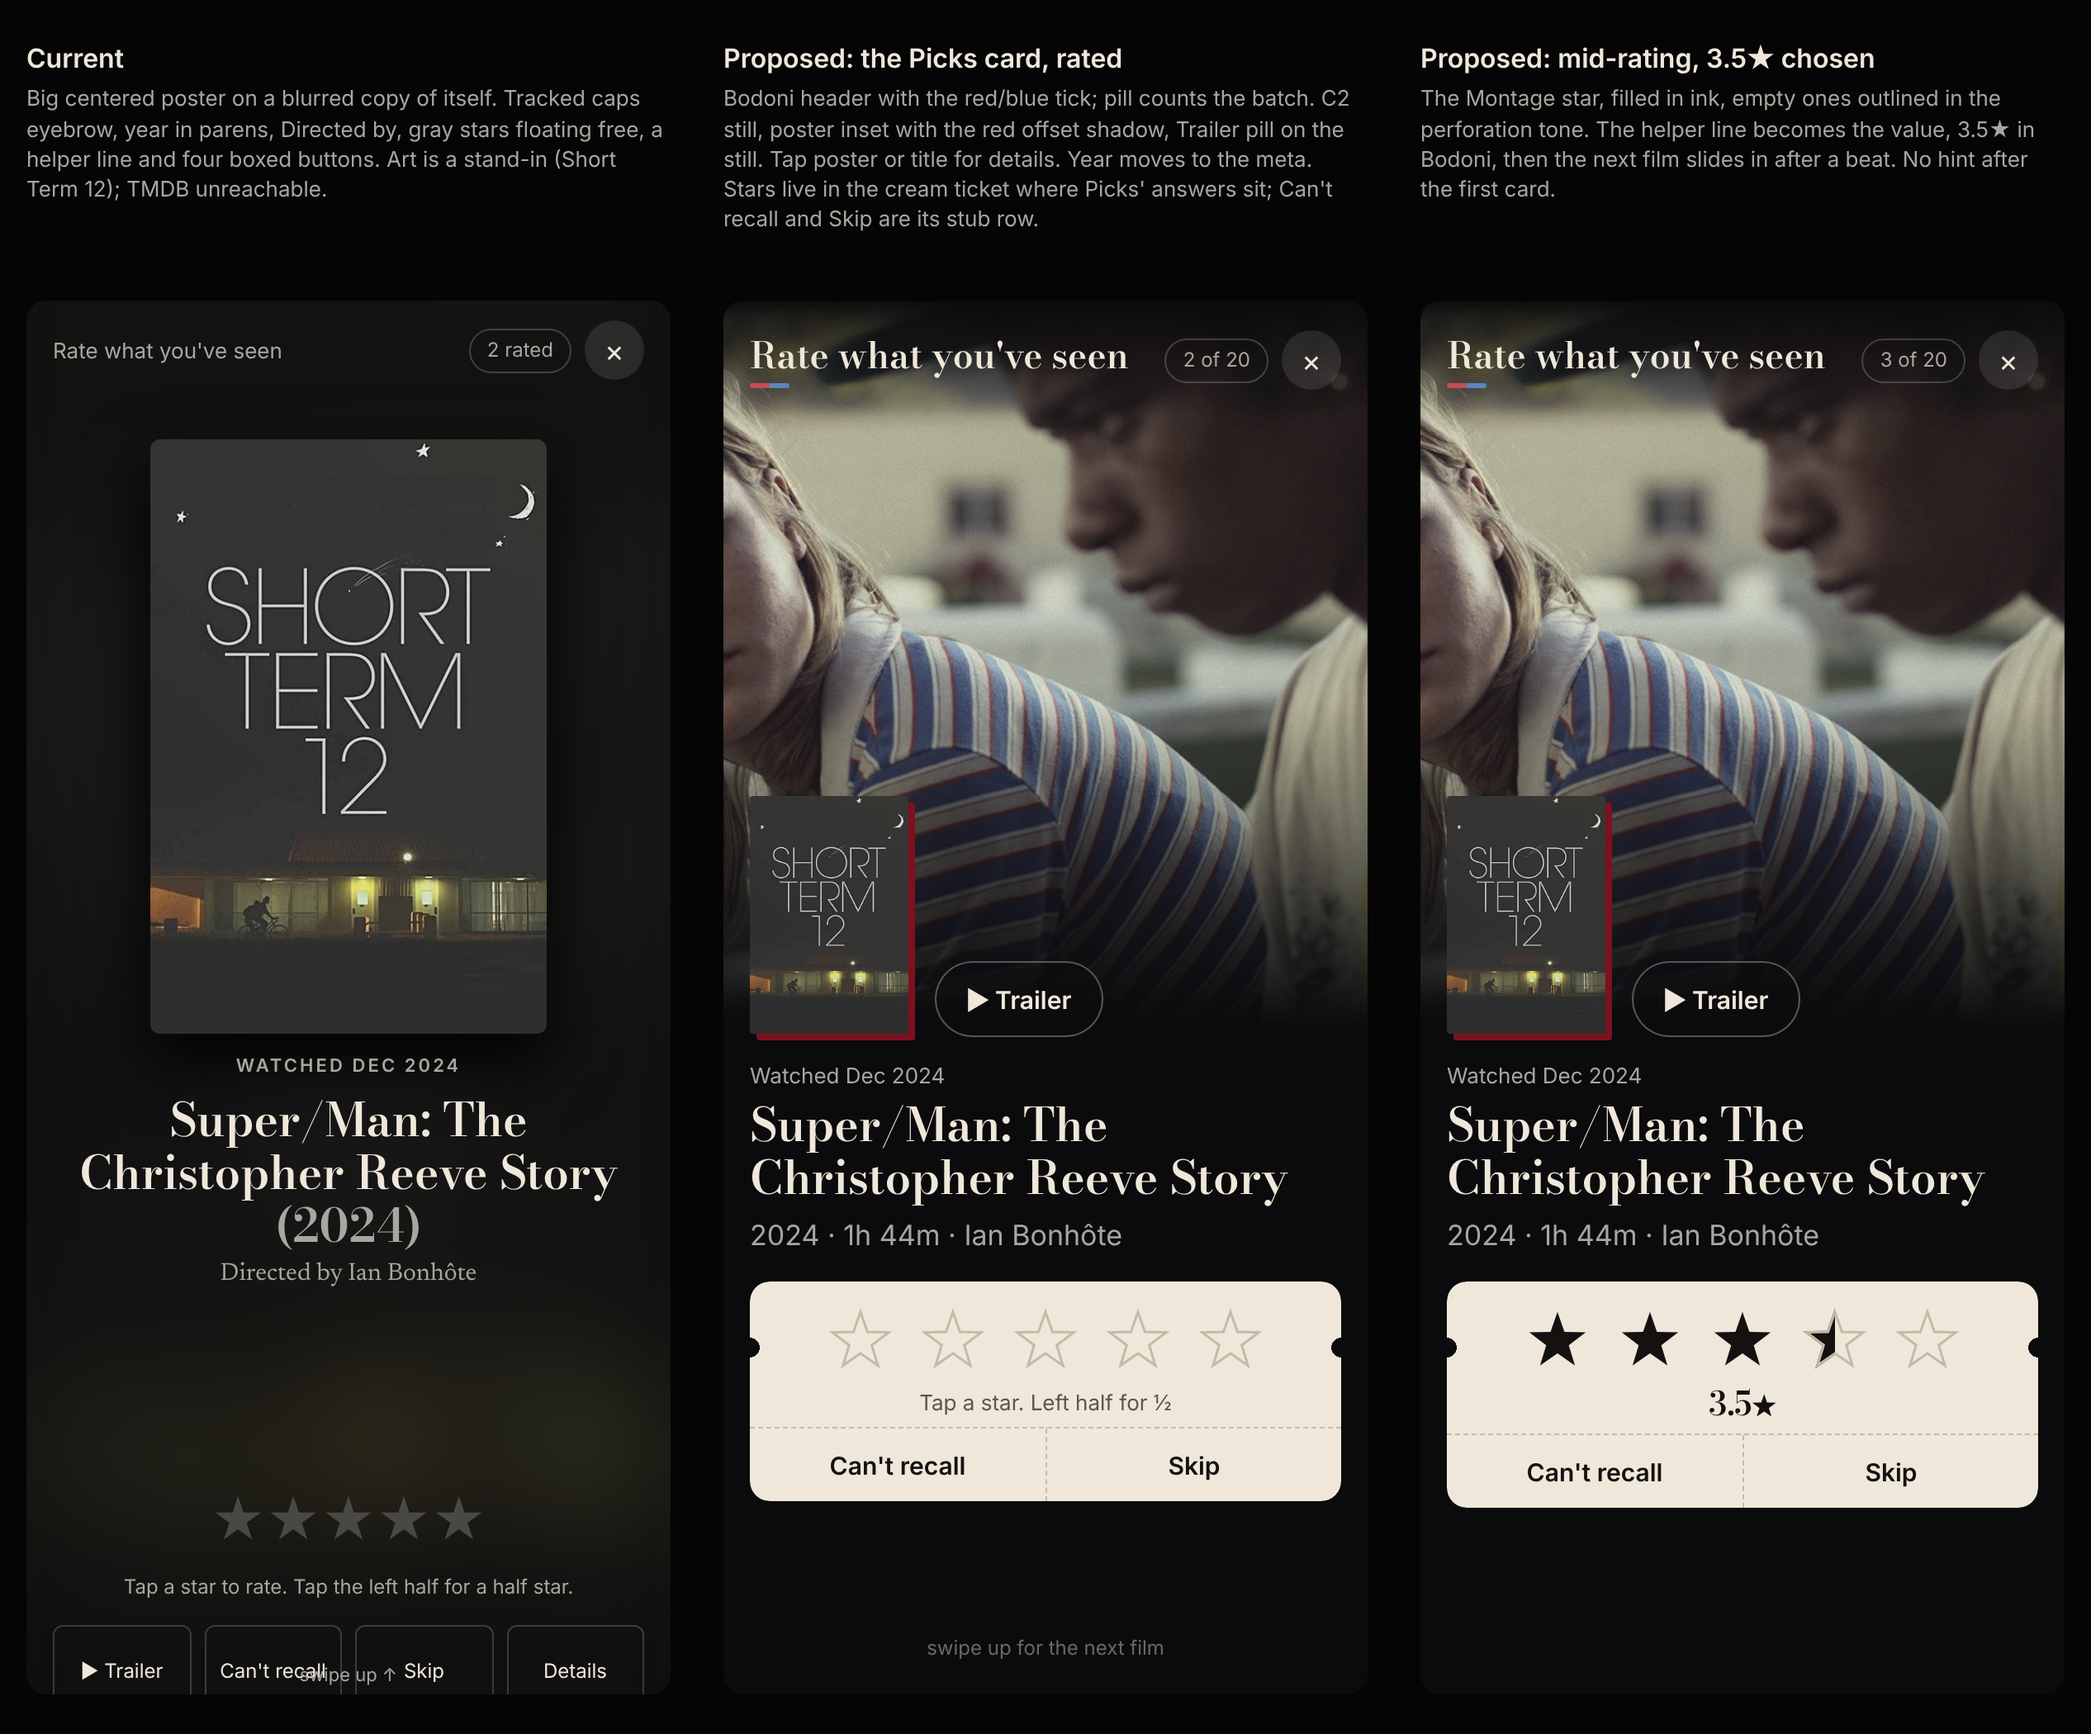
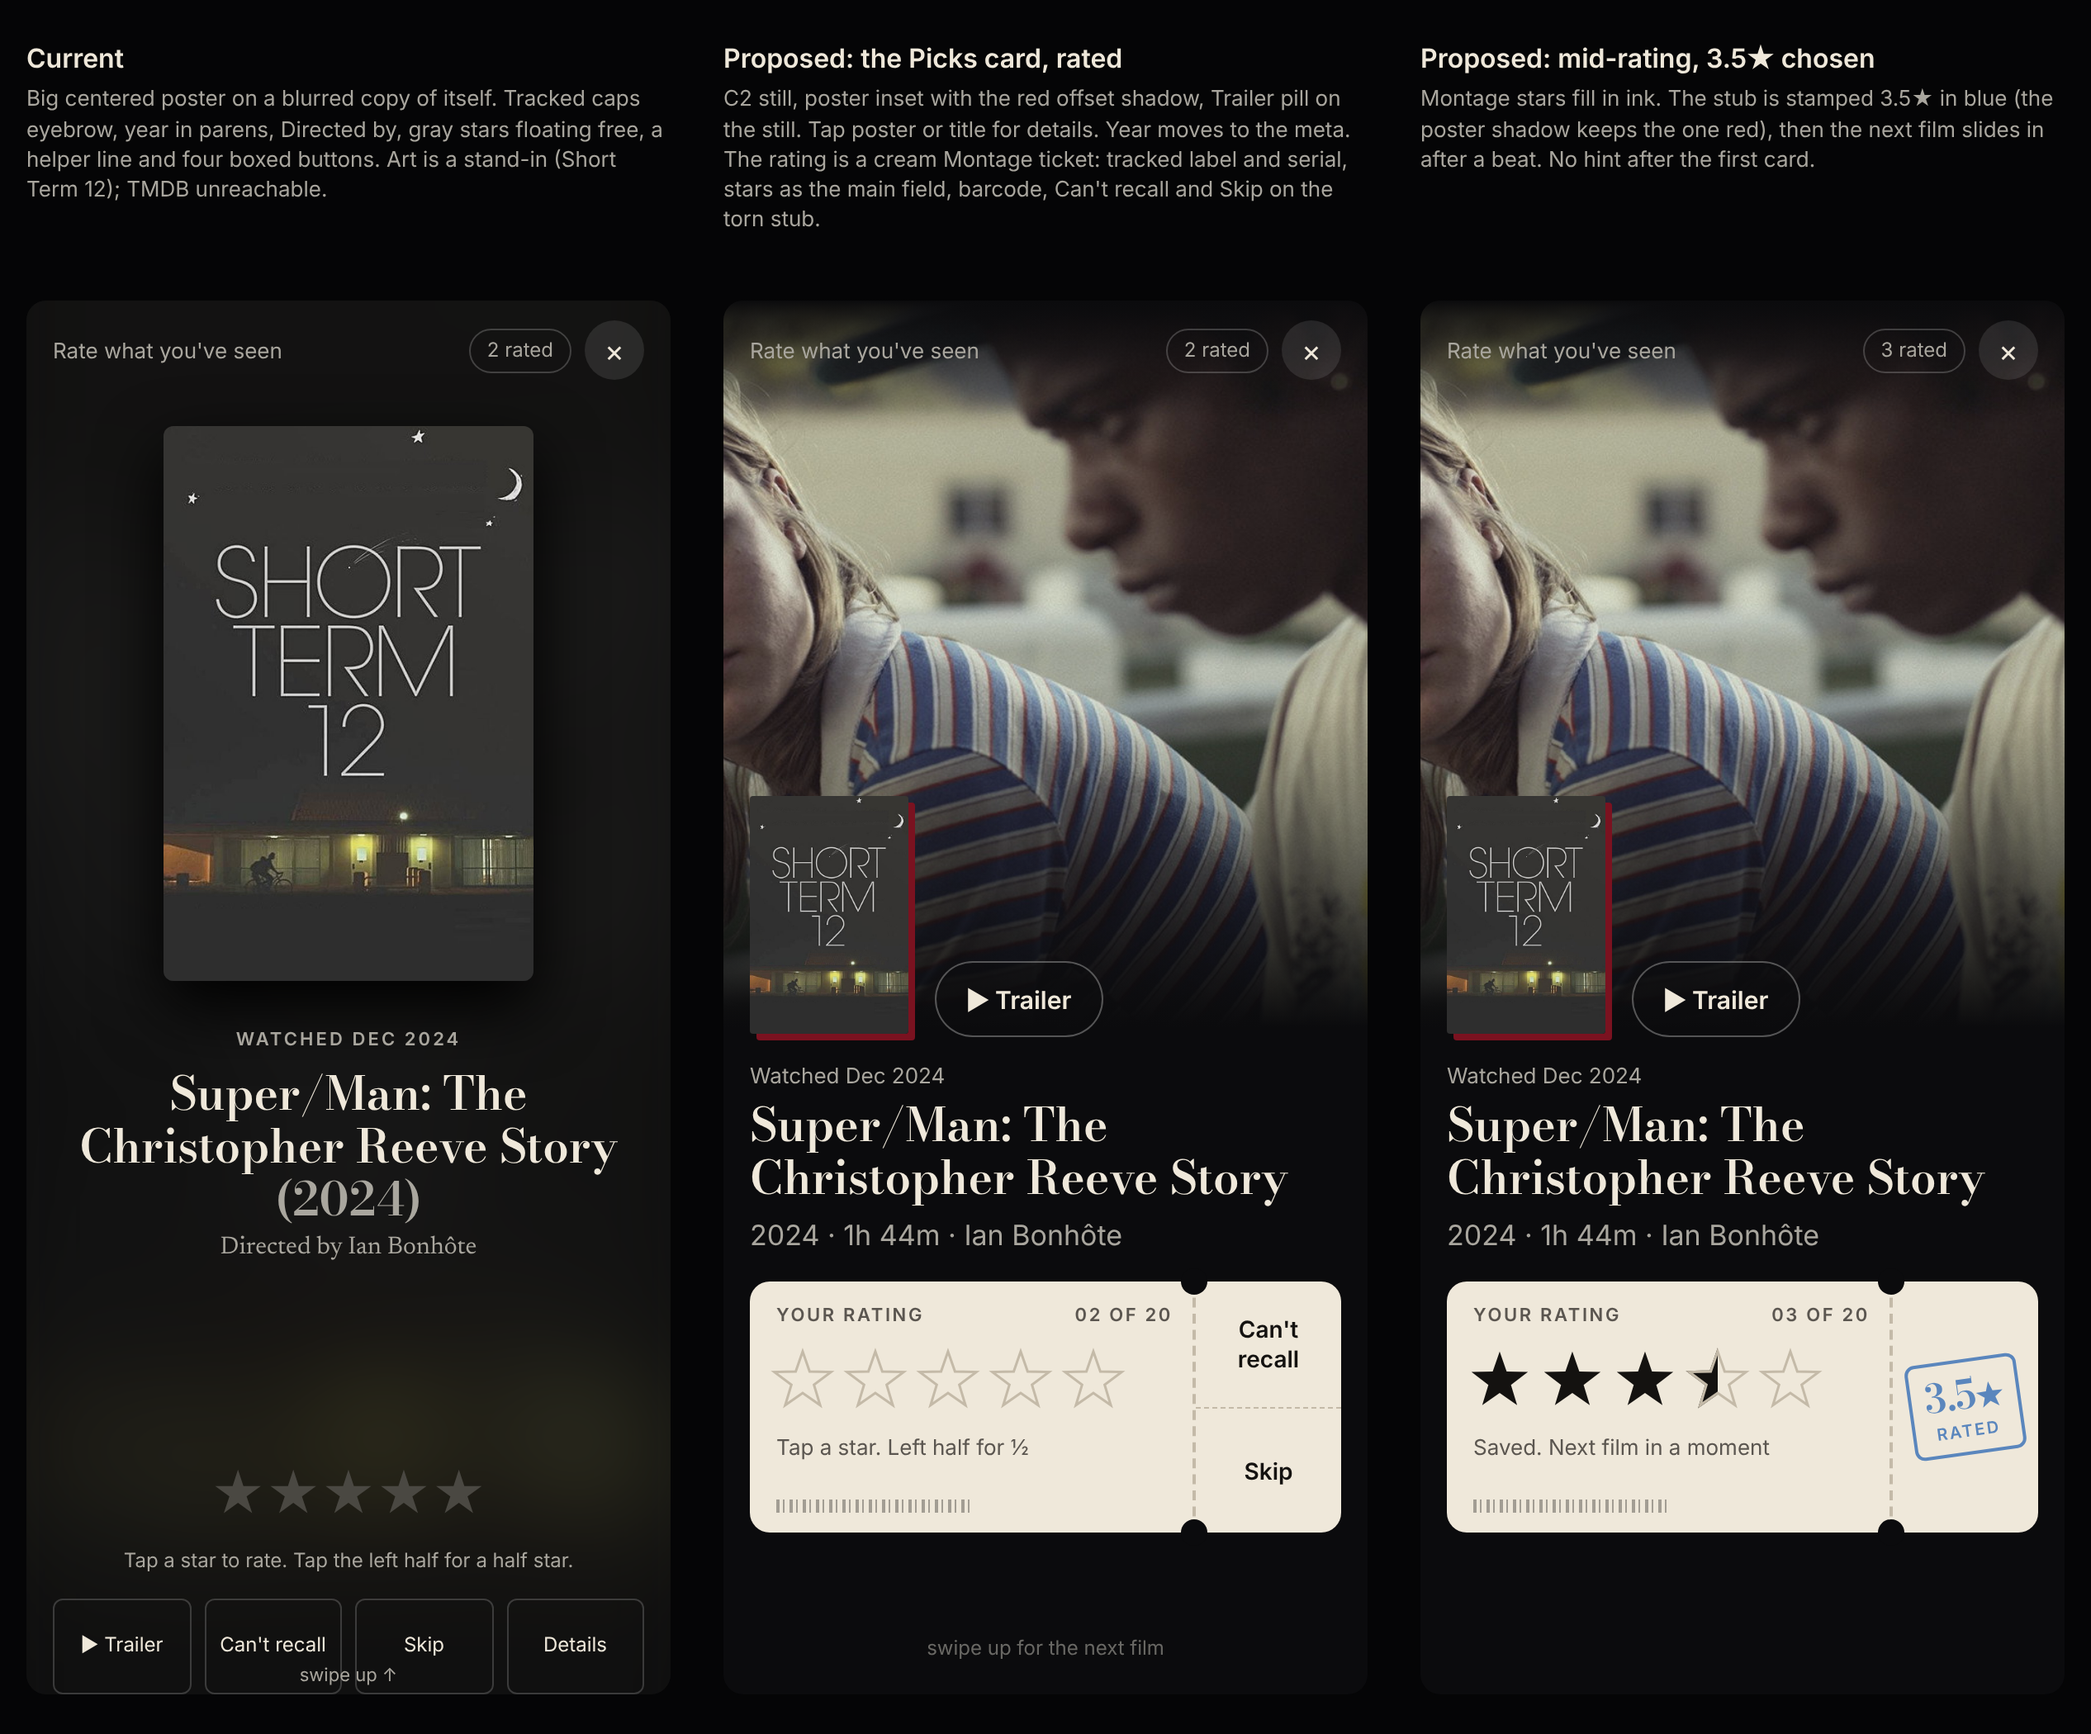
Mock: rate deck ticket in the Tonight ticket language, no header tick
Claude-Session: https://claude.ai/code/session_013WRDCFXH8nihP92apJAVW7

diff --git a/mockups/journeys/b36-rate-deck.html b/mockups/journeys/b36-rate-deck.html
@@ -13,8 +13,8 @@ body{margin:0;background:#050506;color:var(--ink);font:14px/1.4 Inter;padding:24
 .chip{border:1px solid rgba(255,255,255,.2);border-radius:999px;padding:4px 10px;font-size:12px;margin-right:8px}
 /* current */
 .cur .bg{position:absolute;inset:0;background:url(file:///home/user/CS-Term-Project/mockups/journeys/picks-backdrop-v2-img/po-st12.jpg) center/cover;filter:blur(30px) brightness(.35);transform:scale(1.2)}
-.cur .po{position:absolute;left:75px;top:84px;width:240px;height:360px;border-radius:6px;background:url(file:///home/user/CS-Term-Project/mockups/journeys/picks-backdrop-v2-img/po-st12.jpg) center/cover;box-shadow:0 16px 40px #000}
-.cur .info{position:absolute;left:16px;right:16px;top:456px;text-align:center}
+.cur .po{position:absolute;left:83px;top:76px;width:224px;height:336px;border-radius:6px;background:url(file:///home/user/CS-Term-Project/mockups/journeys/picks-backdrop-v2-img/po-st12.jpg) center/cover;box-shadow:0 16px 40px #000}
+.cur .info{position:absolute;left:16px;right:16px;top:440px;text-align:center}
 .eb{font-size:11px;letter-spacing:.14em;color:var(--muted);font-weight:600}
 .cur h1{font:500 28px/32px Bod;margin:8px 0 6px}.cur h1 span{color:var(--muted)}
 .cur .dir{font:15px News;color:var(--muted);margin:0 0 12px}
@@ -49,6 +49,19 @@ body{margin:0;background:#050506;color:var(--ink);font:14px/1.4 Inter;padding:24
 .st b.on{color:var(--ci)!important;-webkit-text-stroke:0}
 .st b.half{background:linear-gradient(90deg,var(--ci) 50%,transparent 50%);-webkit-background-clip:text;-webkit-text-stroke:1.5px var(--perf)}
 .val .n{font:500 20px/20px Bod}.val .g{font-family:"Montage Star";font-size:16px}
+.tk{position:relative;margin-top:16px;display:flex;background:var(--cream);color:var(--ci);border-radius:12px;height:152px}
+.tm{flex:1;padding:12px 12px 12px 16px;position:relative}
+.tl{display:flex;justify-content:space-between;font:600 11px/16px Inter;letter-spacing:.12em;text-transform:uppercase;color:var(--cm)}
+.tk .st{justify-content:flex-start;height:56px;margin:4px 0 0 -6px}.tk .st b{width:44px;height:56px}
+.tv{font-size:13px;height:24px;line-height:24px}.tv.m{color:var(--cm)}.tv .n{font:500 20px/24px Bod}.tv .g{font-family:"Montage Star";font-size:16px;margin-right:4px}
+.bc{position:absolute;left:16px;bottom:12px;width:120px;height:8px;opacity:.35;background:repeating-linear-gradient(90deg,var(--ci) 0 2px,transparent 2px 4px,var(--ci) 4px 5px,transparent 5px 8px)}
+.stub{width:88px;border-left:2px dashed var(--perf);position:relative;display:flex;flex-direction:column}
+.stub::before,.stub::after{content:"";position:absolute;left:-9px;width:16px;height:16px;border-radius:50%;background:var(--bg)}
+.stub::before{top:-8px}.stub::after{bottom:-8px}
+.sb{flex:1;display:grid;place-items:center;text-align:center;font:600 14px/18px Inter}.sb+.sb{border-top:1px dashed var(--perf)}
+.stub.done{align-items:center;justify-content:center}
+.stamp{transform:rotate(-8deg);border:2px solid #5a86bd;color:#5a86bd;border-radius:6px;padding:6px 8px;text-align:center;line-height:1}
+.stamp .n{font:500 24px/28px Bod}.stamp .g{font-family:"Montage Star";font-size:18px}.stamp i{display:block;font:600 10px/14px Inter;font-style:normal;letter-spacing:.12em;text-transform:uppercase}
 </style></head><body><div class="row">
 <div class="cap"><h3>Current</h3><p>Big centered poster on a blurred copy of itself. Tracked caps eyebrow, year in parens, Directed by, gray stars floating free, a helper line and four boxed buttons. Art is a stand-in (Short Term 12); TMDB unreachable.</p>
 <div class="ph cur"><div class="bg"></div><div class="top"><span>Rate what you've seen</span><span style="display:flex;align-items:center"><span class="chip">2 rated</span><span class="x">×</span></span></div>
@@ -56,16 +69,16 @@ body{margin:0;background:#050506;color:var(--ink);font:14px/1.4 Inter;padding:24
 <div class="stars">★★★★★</div><div class="help">Tap a star to rate. Tap the left half for a half star.</div>
 <div class="tiles"><div>▶ Trailer</div><div>Can't recall</div><div>Skip</div><div>Details</div></div></div><div class="hint">swipe up ↑</div></div></div>
 
-<div class="cap"><h3>Proposed: the Picks card, rated</h3><p>Bodoni header with the red/blue tick; pill counts the batch. C2 still, poster inset with the red offset shadow, Trailer pill on the still. Tap poster or title for details. Year moves to the meta. Stars live in the cream ticket where Picks' answers sit; Can't recall and Skip are its stub row.</p>
-<div class="ph"><div class="bd"></div><div class="top"><span class="ttl">Rate what you've seen</span><span style="display:flex;align-items:center"><span class="chip">2 of 20</span><span class="x">×</span></span></div>
+<div class="cap"><h3>Proposed: the Picks card, rated</h3><p>C2 still, poster inset with the red offset shadow, Trailer pill on the still. Tap poster or title for details. Year moves to the meta. The rating is a cream Montage ticket: tracked label and serial, stars as the main field, barcode, Can't recall and Skip on the torn stub.</p>
+<div class="ph"><div class="bd"></div><div class="top"><span>Rate what you've seen</span><span style="display:flex;align-items:center"><span class="chip">2 rated</span><span class="x">×</span></span></div>
 <div class="ip"></div><div class="tr">▶ Trailer</div>
 <div class="pi"><div class="lab">Watched Dec 2024</div><h1>Super/Man: The Christopher Reeve Story</h1><div class="meta">2024 · 1h 44m · Ian Bonhôte</div>
-<div class="bar"><div class="st"><b>★</b><b>★</b><b>★</b><b>★</b><b>★</b></div><div class="val">Tap a star. Left half for ½</div><div class="sec"><div>Can't recall</div><div>Skip</div></div></div></div>
+<div class="tk"><div class="tm"><div class="tl"><span>Your rating</span><span>02 of 20</span></div><div class="st"><b class="">★</b><b class="">★</b><b class="">★</b><b class="">★</b><b class="">★</b></div><div class="tv m">Tap a star. Left half for ½</div><div class="bc"></div></div><div class="stub"><div class="sb">Can't<br>recall</div><div class="sb">Skip</div></div></div></div>
 <div class="ph2hint">swipe up for the next film</div></div></div>
 
-<div class="cap"><h3>Proposed: mid-rating, 3.5★ chosen</h3><p>The Montage star, filled in ink, empty ones outlined in the perforation tone. The helper line becomes the value, 3.5★ in Bodoni, then the next film slides in after a beat. No hint after the first card.</p>
-<div class="ph"><div class="bd"></div><div class="top"><span class="ttl">Rate what you've seen</span><span style="display:flex;align-items:center"><span class="chip">3 of 20</span><span class="x">×</span></span></div>
+<div class="cap"><h3>Proposed: mid-rating, 3.5★ chosen</h3><p>Montage stars fill in ink. The stub is stamped 3.5★ in blue (the poster shadow keeps the one red), then the next film slides in after a beat. No hint after the first card.</p>
+<div class="ph"><div class="bd"></div><div class="top"><span>Rate what you've seen</span><span style="display:flex;align-items:center"><span class="chip">3 rated</span><span class="x">×</span></span></div>
 <div class="ip"></div><div class="tr">▶ Trailer</div>
 <div class="pi"><div class="lab">Watched Dec 2024</div><h1>Super/Man: The Christopher Reeve Story</h1><div class="meta">2024 · 1h 44m · Ian Bonhôte</div>
-<div class="bar"><div class="st"><b class="on">★</b><b class="on">★</b><b class="on">★</b><b class="half">★</b><b>★</b></div><div class="val" style="color:var(--ci);height:24px"><span class="n">3.5</span><span class="g">★</span></div><div class="sec"><div>Can't recall</div><div>Skip</div></div></div></div></div></div>
+<div class="tk"><div class="tm"><div class="tl"><span>Your rating</span><span>03 of 20</span></div><div class="st"><b class="on">★</b><b class="on">★</b><b class="on">★</b><b class="half">★</b><b class="">★</b></div><div class="tv m">Saved. Next film in a moment</div><div class="bc"></div></div><div class="stub done"><div class="stamp"><span class="n">3.5</span><span class="g">★</span><i>Rated</i></div></div></div></div></div>
 </div></body></html>
